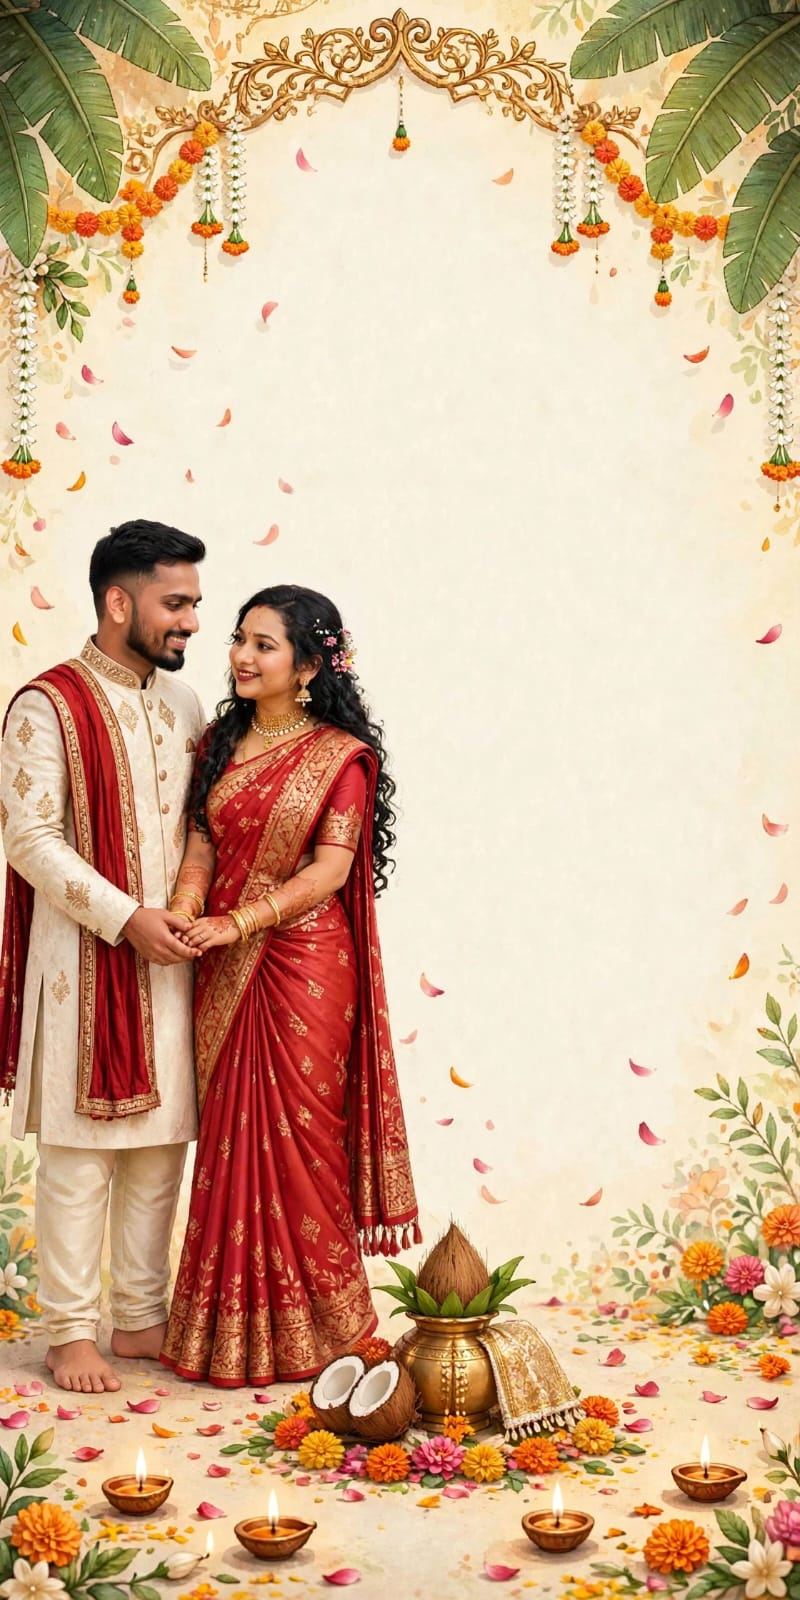
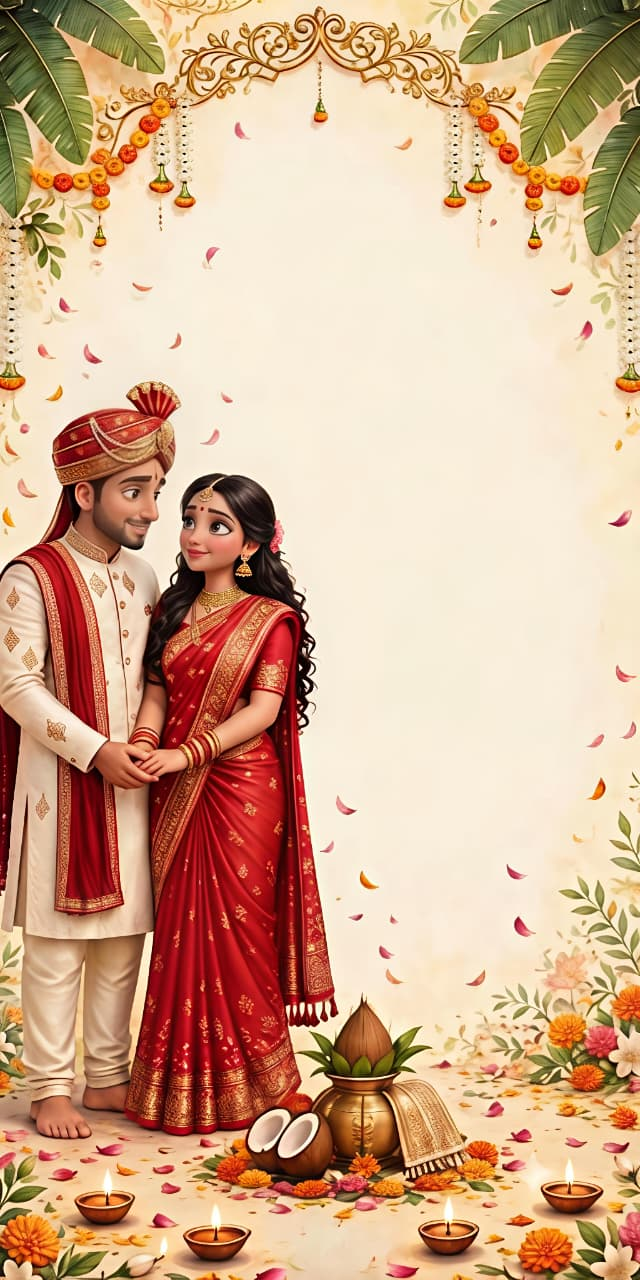
change phto

diff --git a/app/shriya/page.tsx b/app/shriya/page.tsx
@@ -216,7 +216,7 @@ export default function BrideInvite() {
       date: "Thursday, 3rd December 2026",
       time: "7:00 PM onwards",
       dress: "Indo-Western / Glamorous",
-      venue: "Mauli Celebration Hall",
+      venue: "Mauli Celebration Hall", 
       topQuote: "An evening of rhythm, beats, and dancing...",
       bottomQuote: "Music, dance and the whole family on its feet.",
       image: "/avatars/sangeet.jpeg",
@@ -320,10 +320,6 @@ export default function BrideInvite() {
               <img src="/avatars/shriya-welcome.jpeg" alt="Welcome" className="w-full h-full object-cover object-bottom" />
             </div>
             
-            {/* 
-              FIXED: Container shrunk to w-[60%] and locked absolute right. 
-              Font reduced to exact text-[30px] to guarantee it fits securely without hitting avatars. 
-            */}
             <div className="absolute inset-y-0 right-0 top-[28%] z-10 w-[60%] pr-6 flex flex-col items-end text-right">
               
               <p className="text-[8px] font-sans tracking-[0.1em] text-[#9a3412] uppercase font-bold drop-shadow-md mb-2 leading-snug">
@@ -398,7 +394,7 @@ export default function BrideInvite() {
           </section>
 
           {/* PAGE 3: TIMELINE LIST OF EVENTS */}
-          <section className="py-12 px-4">
+          <section className="pt-12 pb-16 px-4">
             <div className="text-center mb-12">
               <h2 className="text-5xl font-cursive text-[#881337] mb-3 mt-2">The Festivities</h2>
               <div className="w-12 h-0.5 bg-[#d97706] mx-auto"></div>
@@ -422,10 +418,6 @@ export default function BrideInvite() {
                     <p className={`text-[10px] italic font-medium bg-amber-50/50 px-2 py-1.5 rounded border border-amber-100 ${event.textColor}`}>
                       &quot;{event.bottomQuote}&quot;
                     </p>
-                    
-                    <div className="font-sans mt-3 text-[8px] uppercase font-bold tracking-wider text-rose-600 border border-rose-200 px-3 py-1.5 rounded-full w-max shadow-sm cursor-default select-none">
-                      + ADD TO CALENDAR
-                    </div>
                   </div>
 
                   <div 
@@ -455,13 +447,6 @@ export default function BrideInvite() {
             
             <CountdownTimer />
             
-          </section>
-
-          {/* FOOTER */}
-          <section className="pb-12 text-center px-4 bg-amber-50">
-            <a href="https://wa.me/91XXXXXXXXXX" target="_blank" rel="noreferrer" className="font-sans inline-block bg-[#881337] text-white px-8 py-3 rounded-full font-bold text-xs shadow-xl active:scale-95 transition-transform">
-              Send RSVP
-            </a>
           </section>
         </div>
 
